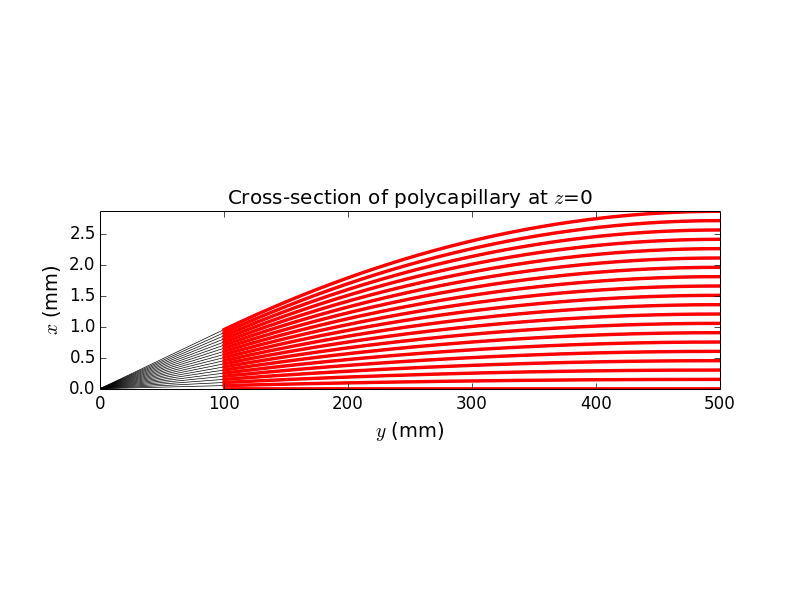
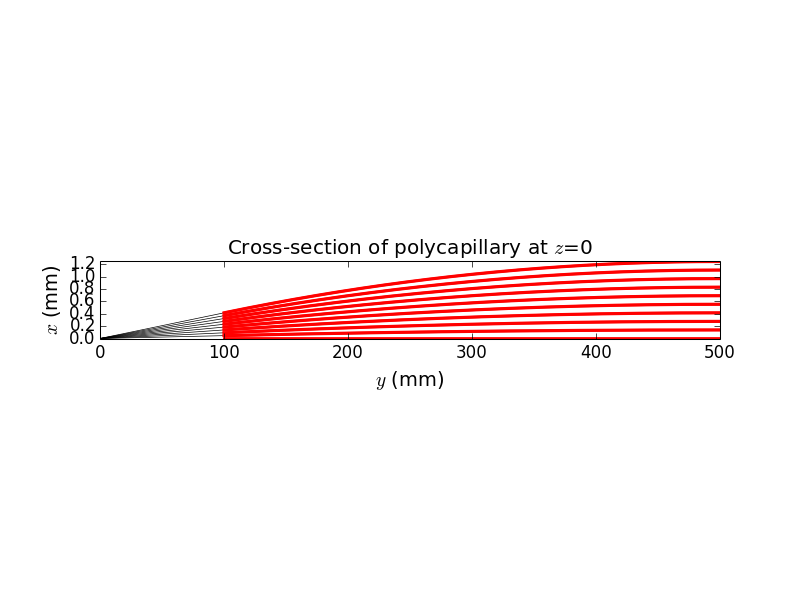
One capillary, 35um, 10cm long
tilt angle small, can calculate
not sure if correct

Changed region(s): [[0.0625, 0.3, 0.9375, 0.69], [0.4688, 0.69, 0.5625, 0.75], [0.0938, 0.36, 0.125, 0.39]]

diff --git a/StraightCapillary.py b/StraightCapillary.py
@@ -1,6 +1,6 @@
 # -*- coding: utf-8 -*-
 """
-Created on Fri Feb 06 16:26:54 2015
+Created on Thu Feb 19 17:52:40 2015
 
 @author: Vladimir Putin
 """
@@ -23,15 +23,15 @@ mGlass = rm.Material(('Si', 'O'), quantities=(1, 2), rho=2.2)
 
 E0 = 9000.
 rSample = 100. # starting position of the lens
-f = 500. # y length in mm from foucs to the end of the lens
-r0 = 0.0030
+f = 250. # y length in mm from foucs to the end of the lens
+r0 = 0.03
 wall = 0.02
 layers = 10 # number of hexagonal layers
 nRefl = 12
 nReflDisp = 12 # unused
 xzPrimeMax = 3.
 
-class BentCapillary(roe.OE):
+class StraightCapillary(roe.OE):
     def __init__(self, *args, **kwargs):
         self.rSample = kwargs.pop('rSample')
         self.entranceAlpha = kwargs.pop('entranceAlpha')
@@ -42,17 +42,18 @@ class BentCapillary(roe.OE):
 
         s0 = self.f - self.rSample * np.cos(self.entranceAlpha)
         self.a0 = -np.tan(self.entranceAlpha) / 2 / s0
-        self.b0 = self.rSample * np.sin(self.entranceAlpha) - self.a0 * s0**2
+        self.b0 = 0.5*self.rSample * np.sin(self.entranceAlpha) - self.a0 * s0**2
+        self.b0 = 0.1
         self.s0 = s0
         self.ar = (self.r0out-self.r0in) / s0**2
         self.br = self.r0in
         self.isParametric = True
 
     def local_x0(self, s):  # axis of capillary, x(s)
-        return self.a0 * (s-0)**2 + self.b0
+        return 0*self.a0 * (s-0)**2 + self.b0
 
     def local_x0Prime(self, s):
-        return 2 * self.a0 * s 
+        return 2 * self.a0 * s * 0
 
     def local_r0(self, s):  # radius of capillary (s)
         return self.ar * (s-self.s0)**2 + self.br
@@ -86,53 +87,64 @@ class BentCapillary(roe.OE):
         y = self.f - s
         z = r * np.cos(phi)
         return x, y, z
-
-
+        
 def build_beamline(nrays=1000):
     beamLine = raycing.BeamLine(height=0)
     rs.GeometricSource(
-        beamLine, 'GeometricSource', (0, 0, 0), nrays=nrays,
-        dx=0., dz=0., distxprime='annulus',
-        distE='lines', energies=(E0,), polarization='horizontal')
-    beamLine.fsm1 = rsc.Screen(beamLine, 'DiamondFSM1', (0, rSample, 0))
+        beamLine, 'GeometricSource', (0,0,0), nrays=nrays,
+        dx=0, dz=0, distxprime='annulus',
+        distE='lines', energies=(E0,), polarization='horizontal')        
+        
+    beamLine.fsm1 = rsc.Screen(beamLine, 'DiamondFSM1', (0,rSample,0))
+    
+    # try to remove superflous container
     beamLine.capillaries = []
-    beamLine.firstInLayer = []
-    beamLine.xzMax = 0
-    for n in range(layers):
-        if n > 0:
-            ms = range(n)
-            i6 = range(6)
-        else:
-            ms = 0,
-            i6 = 0,
-        beamLine.firstInLayer.append(len(beamLine.capillaries))
-        for i in i6:
-            for m in ms:
-                x = 2 * (r0+wall) * (n**2 + m**2 - n*m)**0.5
-                alpha = np.arcsin(x / rSample)
-                roll1 = -np.arctan2(np.sqrt(3)*m, 2*n - m)
-                roll = roll1 + i*np.pi/3.
-                capillary = BentCapillary(
-                    beamLine, 'BentCapillary', [0, 0, 0], roll=roll,
-                    material=mGlass, limPhysY=[rSample*np.cos(alpha), f],
-                    f=f, rSample=rSample, entranceAlpha=alpha, rIn=r0, rOut=r0)
-                beamLine.capillaries.append(capillary)
-                if beamLine.xzMax < capillary.b0:
-                    beamLine.xzMax = capillary.b0
-    print 'max divergence =', alpha
-    beamLine.xzMax += 2 * r0
-    print len(beamLine.capillaries)
+    beamLine.xzMax = 0 # no ide what this does
+    # this parameter should be @line 8
+    alpha = 0.0005 # hopefully milliradian
+    roll = 0 # test if this rotates whole object
+    capillary = StraightCapillary(
+        beamLine, 'StraightCapillary', [0,0,0], roll=roll,
+        material=mGlass, limPhysY=[rSample*np.cos(alpha), f],
+        f=f, rSample=rSample, entranceAlpha=alpha, rIn=r0, rOut=r0)
+    beamLine.capillaries.append(capillary)         
+    
+    if beamLine.xzMax < capillary.b0:
+        beamLine.xzMax = capillary.b0
+    beamLine.xzMax += 2*r0
+    
+    n=1     # one layer..
     beamLine.sources[0].dxprime = 0, np.arcsin((2*n+1) * (r0+wall) / rSample)
-#    beamLine.sources[0].dxprime = (np.arcsin((2*n-3) * (r0+wall) / rSample),
-#        np.arcsin((2*n+1) * (r0+wall) / rSample))
-#    beamLine.sources[0].dxprime = 0, np.arcsin(r0 / rSample)
-    beamLine.fsm2 = rsc.Screen(beamLine, 'DiamondFSM2', (0, f, 0))
+    beamLine.fsm2 = rsc.Screen(beamLine,'DiamondFSM2', (0,f+300,0))
     return beamLine
-
+    
+    
+# function for showing the capillary in some relevant frame    
+def plot2D():
+    beamLine = build_beamline()
+    fig1 = plt.figure(1, figsize=(8,6))    
+    ax1 = plt.subplot(111,aspect=800, label='1')
+    ax1.set_title('Cross-section of polycapillary at $z$=0')
+    ax1.set_xlabel(r'$y$ (mm)', fontsize=14)
+    ax1.set_ylabel(r'$x$ (mm)', fontsize=14)
+    
+    capillary = beamLine.capillaries[0]
+    s = np.linspace(0,capillary.s0,200)
+    x = capillary.local_x0(s)
+    r = capillary.local_r0(s)
+    ax1.plot([0,f-s[-1]],[0,x[-1]],'k-', lw=0.5)
+    line = ax1.plot(f-s, x, 'k-.', lw=0.5)
+    line[0].set_dashes([2,5,12,5])
+    ax1.plot(f-s, x-r, 'r-', lw=2)
+    ax1.plot(f-s, x+r, 'r-', lw=2)
+    
+    ax1.set_xlim(0,f)
+    ax1.set_ylim(0,0.2)
+    
+# some important function
 def run_process(beamLine, shineOnly1stSource=False):
     beamSource = beamLine.sources[0].shine()
-#    raycing.rotate_beam(
-#        beamSource, yaw=-beamLine.capillaries[0].entranceAlpha)
+    # at the entrance
     beamFSM1 = beamLine.fsm1.expose(beamSource)
     outDict = {'beamSource': beamSource, 'beamFSM1': beamFSM1}
     beamCapillaryGlobalTotal = None
@@ -148,60 +160,28 @@ def run_process(beamLine, shineOnly1stSource=False):
             rs.copy_beam(beamCapillaryGlobalTotal, beamCapillaryGlobal,
                          good, includeState=True)
         outDict['beamCapillaryLocalN{0:02d}'.format(i)] = beamCapillaryLocalN
-    outDict['beamCapillaryGlobalTotal'] = beamCapillaryGlobalTotal
-    beamFSM2 = beamLine.fsm2.expose(beamCapillaryGlobalTotal)
-    outDict['beamFSM2'] = beamFSM2
-    return outDict
-rr.run_process = run_process
-
-
-def plot2D():
-    beamLine = build_beamline()
-    fig1 = plt.figure(1, figsize=(8, 6))
-#    ax1 = plt.subplot(111, aspect='equal', label='1')
-    ax1 = plt.subplot(111, aspect=50, label='1')
-    ax1.set_title('Cross-section of polycapillary at $z$=0')
-    ax1.set_xlabel(r'$y$ (mm)', fontsize=14)
-    ax1.set_ylabel(r'$x$ (mm)', fontsize=14)
-    seq = [2, 5, 12, 5]
-    for i in beamLine.firstInLayer:
-        capillary = beamLine.capillaries[i]
-        print str(i) + ' ' + str(capillary.br)
-        s = np.linspace(0, capillary.s0, 200)
-        x = capillary.local_x0(s)
-        r = capillary.local_r0(s)
-        ax1.plot([0, f-s[-1]], [0, x[-1]], 'k-', lw=0.5)
-        line = ax1.plot(f-s, x, 'k-.', lw=0.5)
-        line[0].set_dashes(seq)
-        ax1.plot(f-s, x-r, 'r-', lw=2)
-        ax1.plot(f-s, x+r, 'r-', lw=2)
-    ax1.set_xlim(0, f)
-    ax1.set_ylim(-2*capillary.r0in, capillary.local_x0(0) + 2*capillary.r0out)
-    fig1.savefig('PolycapillaryZ0crosssection.png')
-    plt.show()
+        outDict['beamCapillaryGlobalTotal'] = beamCapillaryGlobalTotal  
+        beamFSM2 = beamLine.fsm2.expose(beamCapillaryGlobalTotal)
+        outDict['beamFSM2'] = beamFSM2
+        return outDict
+rr.run_process = run_process                      
     
 def main():
     beamLine = build_beamline()
-    fwhmFormatStr3 = '%.3f'
     plots = []
-#    PlotClass = xrtp.XYCPlotWithNumerOfReflections
-    PlotClass = xrtp.XYCPlot
-
-    limits = [-3,3]
-    plot = xrtp.XYCPlot(
-        'beamFSM2', (1, 3),
+    
+    limits = [-0.5, 0.5]
+    # at the entrance
+    plot = xrtp.XYCPlot('beamFSM2', (1,3),
         xaxis=xrtp.XYCAxis(r'$x$', 'mm', bins=256, ppb=2, limits=limits),
         yaxis=xrtp.XYCAxis(r'$z$', 'mm', bins=256, ppb=2, limits=limits),
         caxis='category', beamState='beamFSM2', title='FSM1_Cat')
-    plot.baseName = 'NCapillaries-a-FSM1Cat'
+    plot.baseName = 'one_capillary_tilt'
     plot.saveName = plot.baseName + '.png'
     plots.append(plot)
-    xrtr.run_ray_tracing(plots, repeats=322, beamLine=beamLine,
-                         processes=2)
-
-#    for i in beamLine.firstInLayer:
-#   capillariesToShow = 0, (layers-1)/2, layers-1    
+    xrtr.run_ray_tracing(plots, repeats=1000, beamLine=beamLine, processes=1)
+    
     
 if __name__ == '__main__':
-#    main()
-    plot2D()
+    plot2D()    
+    main()
